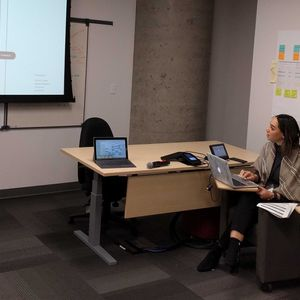
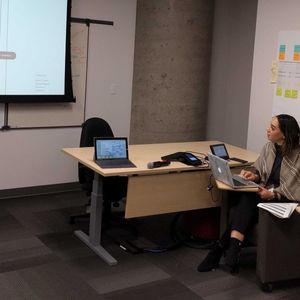
Skip CI - Processed images

diff --git a/content/en/blog/posts/a-conducting-user-research-with-NRCan.md b/content/en/blog/posts/a-conducting-user-research-with-NRCan.md
@@ -12,6 +12,7 @@ image: /img/cds/blog-conducting-user-research-with-NRCAN.jpg
 image-alt: Eman and Jennifer looking at the Value Proposition Canvas
 translationKey: conducting-user-research-with-NRCan
 thumb: /img/cds/thumbnails/blog-conducting-user-research-with-NRCAN.jpg
+processed: 1550687994416
 ---
 
 When Natural Resources Canada (NRCan) came to us with the idea of opening up access to [EnerGuide](https://www.nrcan.gc.ca/energy/efficiency/housing/home-improvements/5005) data, the solution seemed pretty obvious — build an ‘Application Programming Interface’ (API) that would allow users to query the EnerGuide data; but first, we had to validate whether this proposed solution was the way to go.  
@@ -51,4 +52,5 @@ The approach we are currently taking to building the API solution is more sophis
 What we proposed was a secure cloud-based solution that would extract data from the EnerGuide database, transform the data into a format that worked for the API, and load that data into another database from which the API would pull.
 
 Our development team is now hard at work building the proposed API solution. Part of this work meant co-locating with the NRCan team. Read [Part 2: Co-locating with NRCan for a week](/2018/02/15/b-colocating-with-nrcan/) to learn more about the co-location experience. Keep an eye out for Part 3 which will delve into the technical build.
+
 
